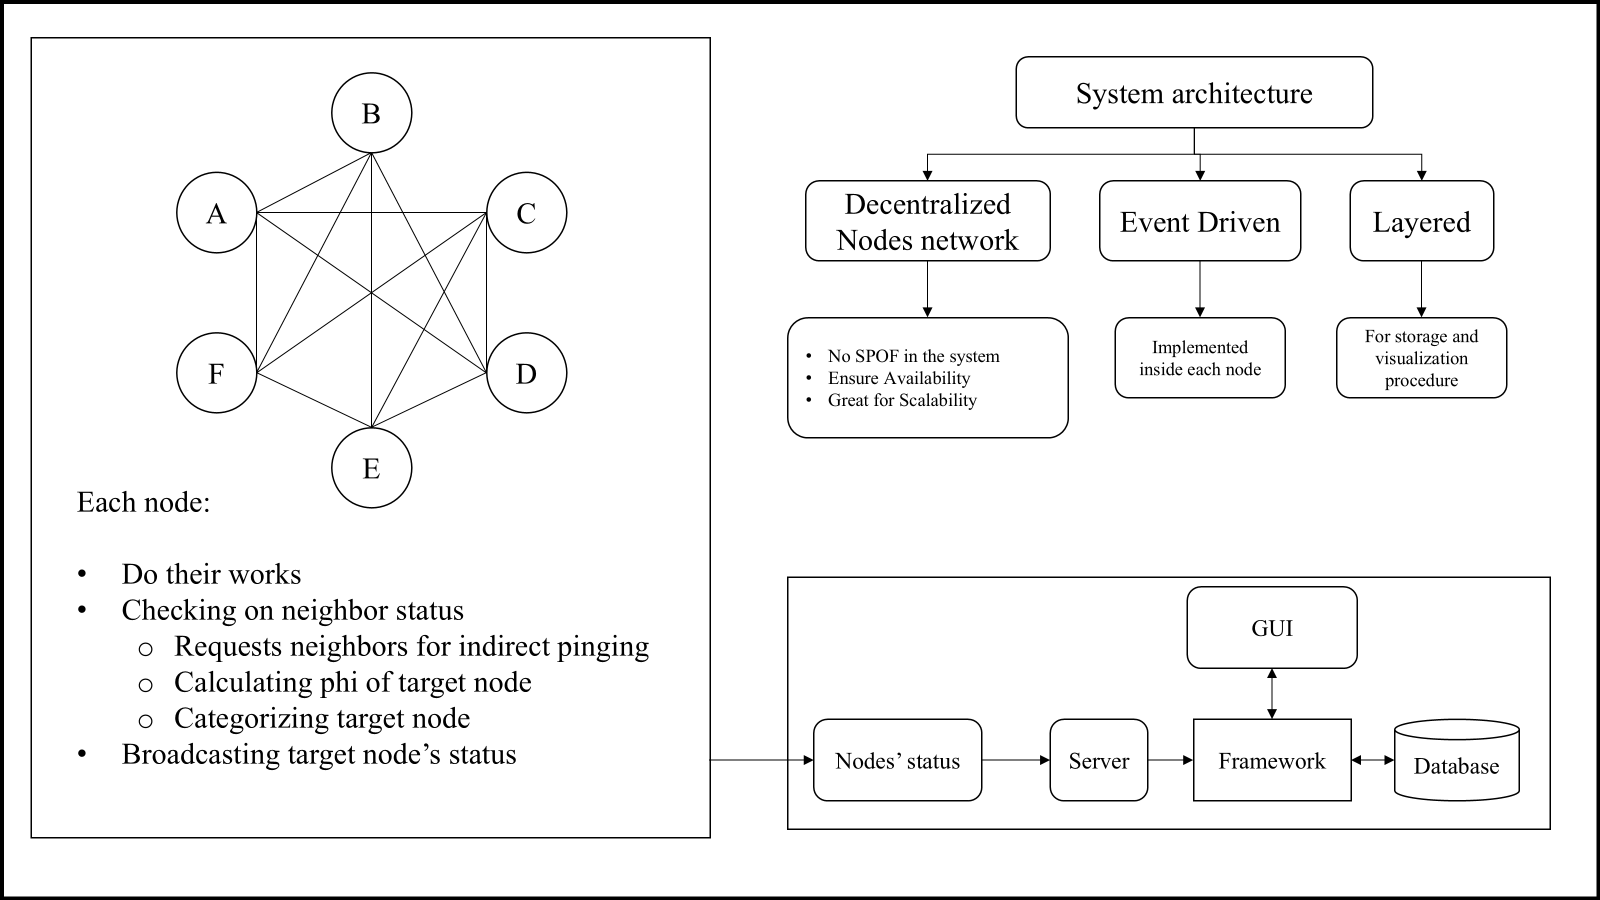
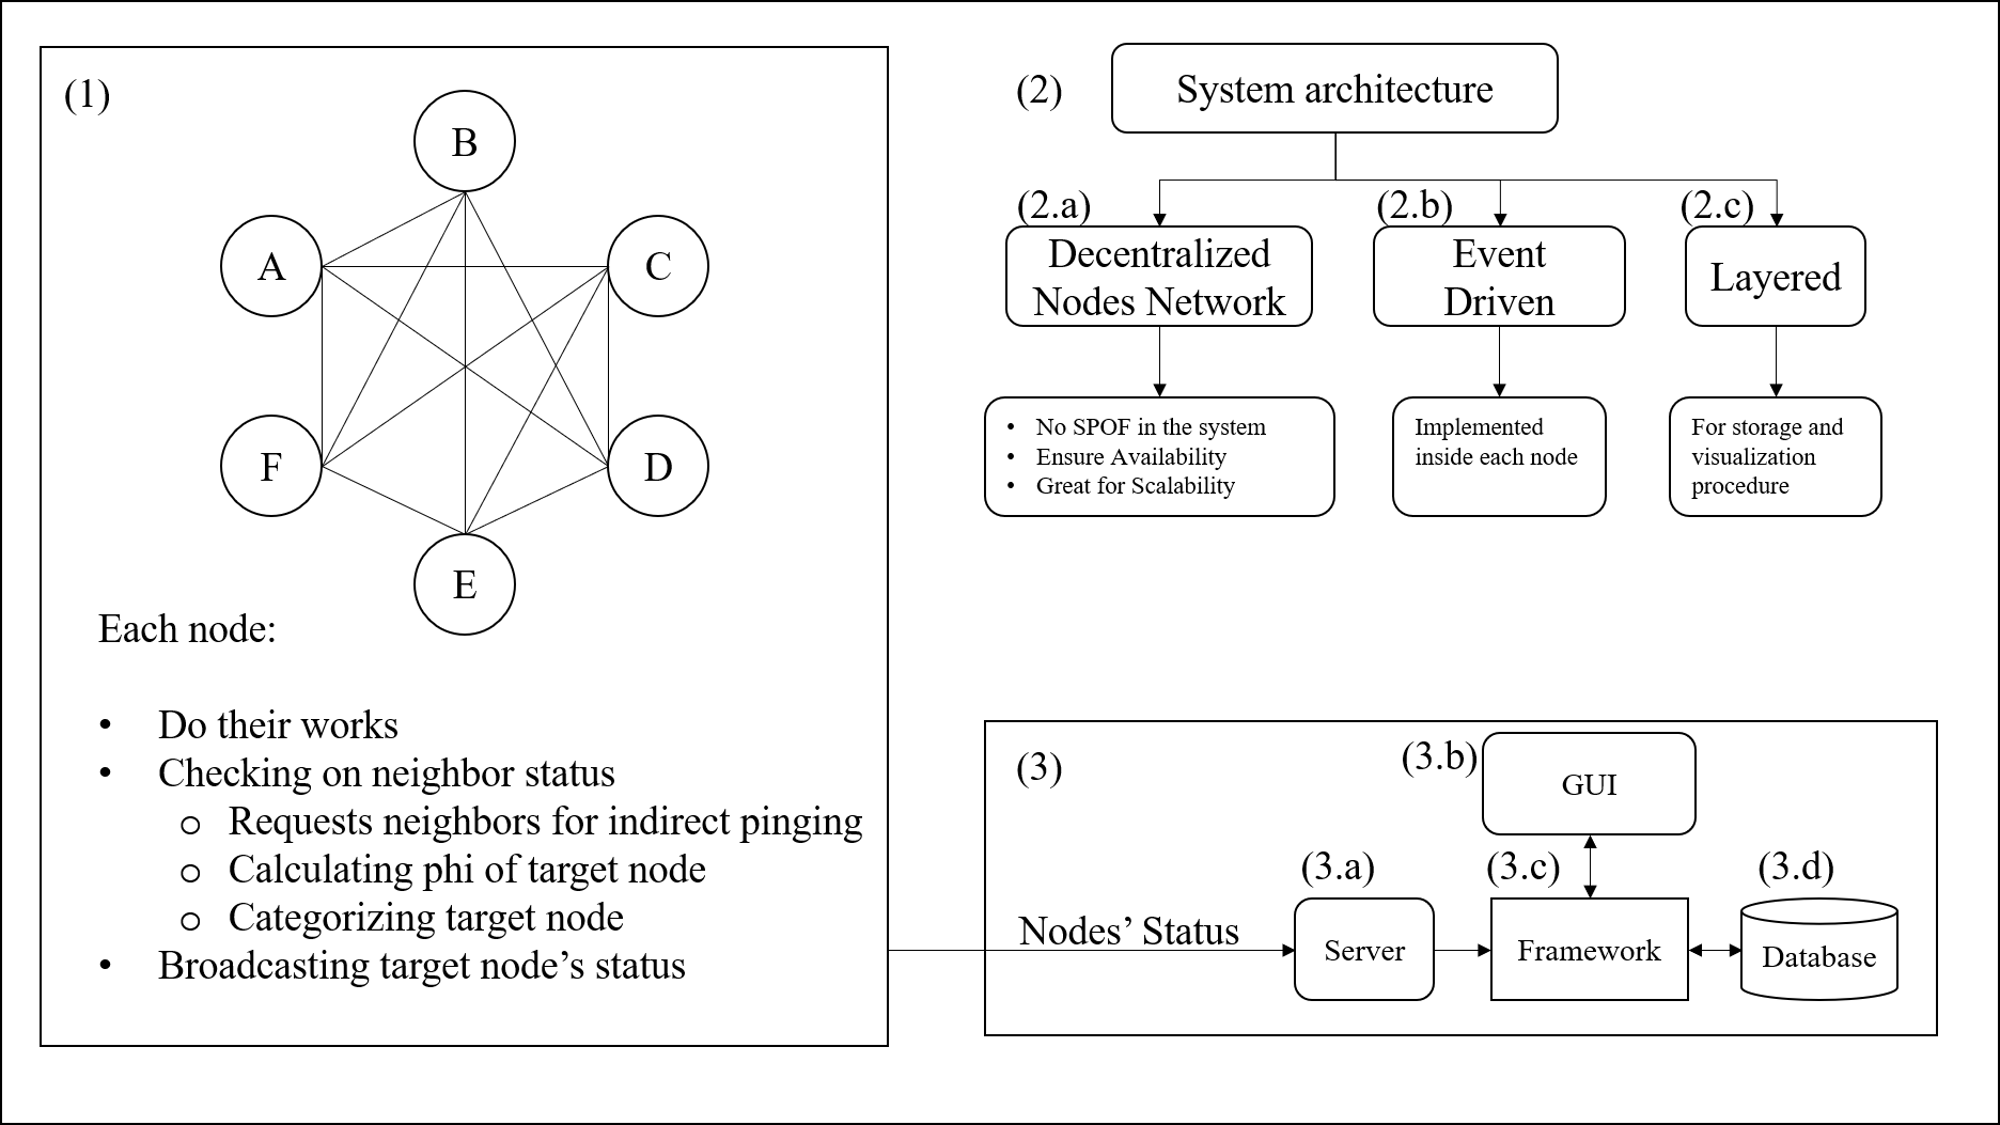
Update Architectural Diagram

diff --git a/document/main.tex b/document/main.tex
@@ -410,18 +410,17 @@ The main contributions are as follows:
 \subsection{Complete Architectural Diagram}
 \label{subsec:architecture}
 
-Inside each node, the health-checking process follows an event-driven structure.
+Inside each node, the health-checking process follows an event-driven structure (1) \& (2.b).
 A node regularly checks its neighbors and reacts when abnormal behavior is detected, such as missing responses, delayed replies, or unreachable nodes.
 When such an event occurs, the node may request indirect checks from other neighbors, calculate the suspicion level of the target node, and categorize it.
 After the status is determined, the result will be broadcasted to the system so that the cluster can maintain a consistent view of node conditions.
 
-The lower part of the diagram~\ref{fig:architecture} represents the supporting observation subsystem.
+The lower part of the diagram (3) represents the supporting observation subsystem.
 This subsystem receives node status information from the decentralized cluster and passes it through several logical layers.
-The first layer receives reported node status, the next layer processes and organizes the information, and the storage layer keeps historical records of node states and failure events.
-The visualization layer then retrieves this information and presents it in a readable form for users to inspect the current and past condition of the cluster.
+The first layer (3.a) receives reported node status, the next layer (3.c) processes and organizes the information, and the storage layer (3.c) \& (3.d) keeps historical records of node states and failure events.
+The visualization layer (3.b) then retrieves this information and presents it in a readable form for users to inspect the current and past condition of the cluster.
 
-The main point of this architecture is the separation between the core health-checking mechanism and the observation subsystem.
-The decentralized cluster is responsible for detection, classification, and reaction, while the supporting layers are used only for reporting, storage, and visualization.
+The decentralized cluster (1) is responsible for detection, classification, and reaction, while the supporting layers (3) are used only for reporting, storage, and visualization.
 Therefore, the system can continue checking node health and maintaining neighbor status even if the observation subsystem, storage component, or visual interface becomes unavailable.
 
 Fig.~\ref{fig:architecture} shows the complete architecture of the proposed system.